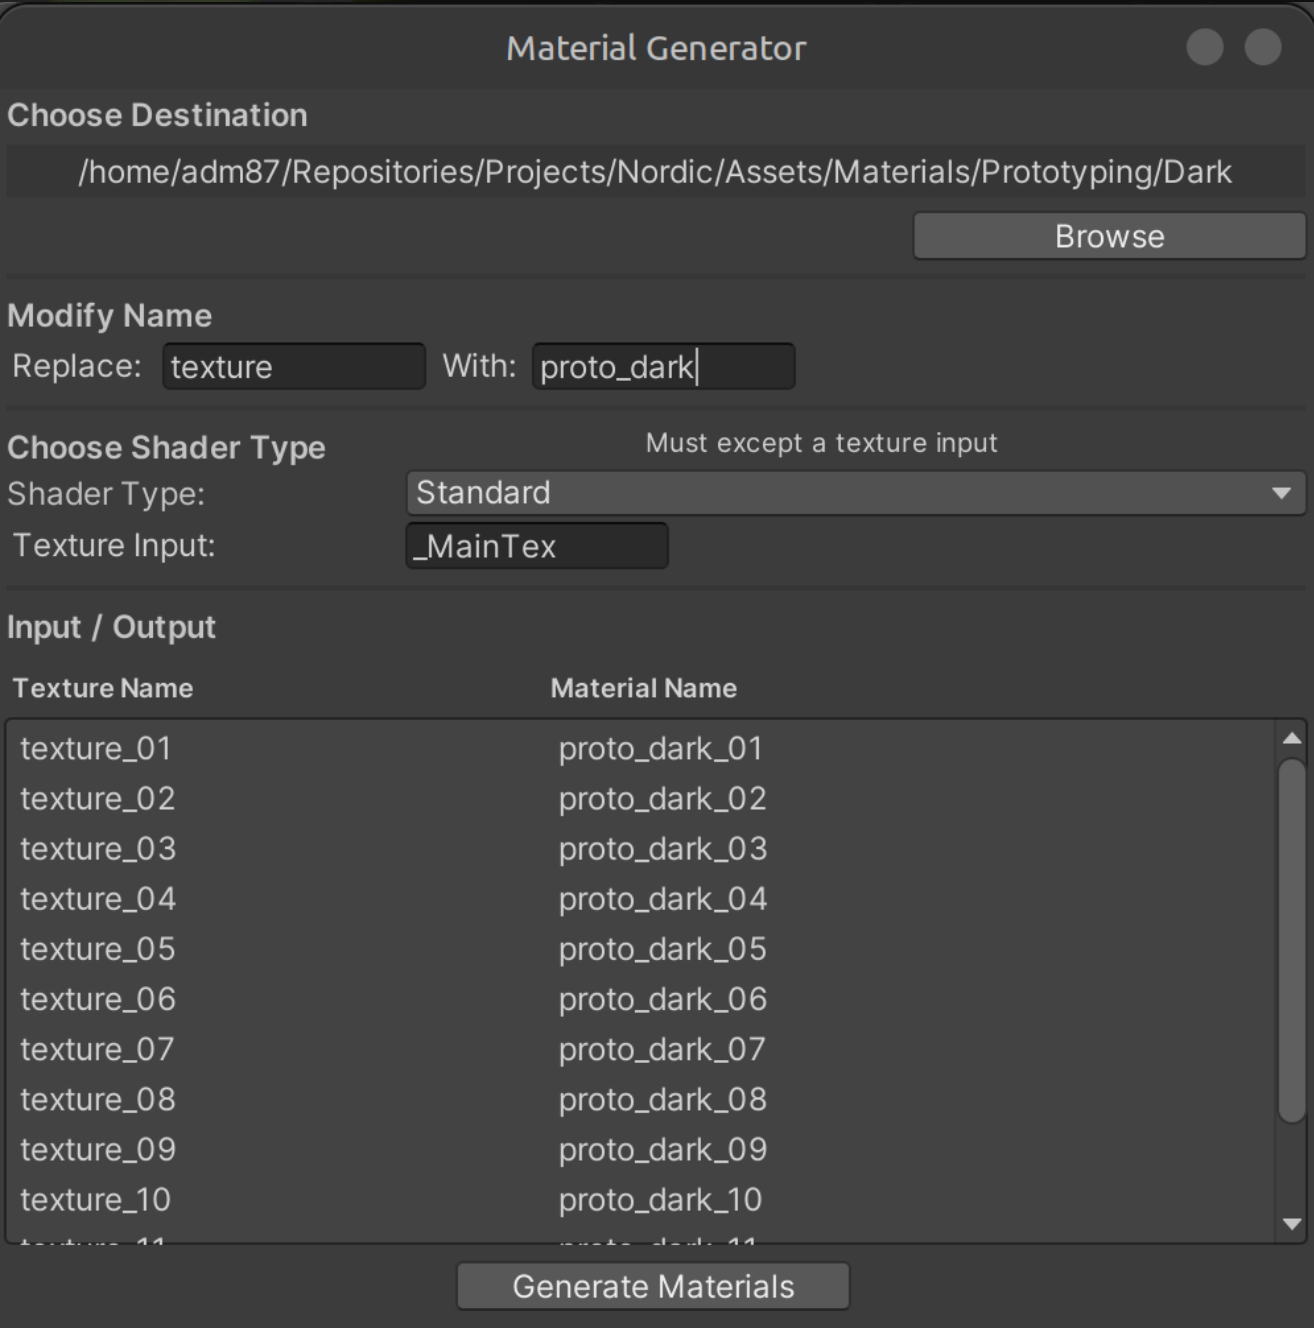
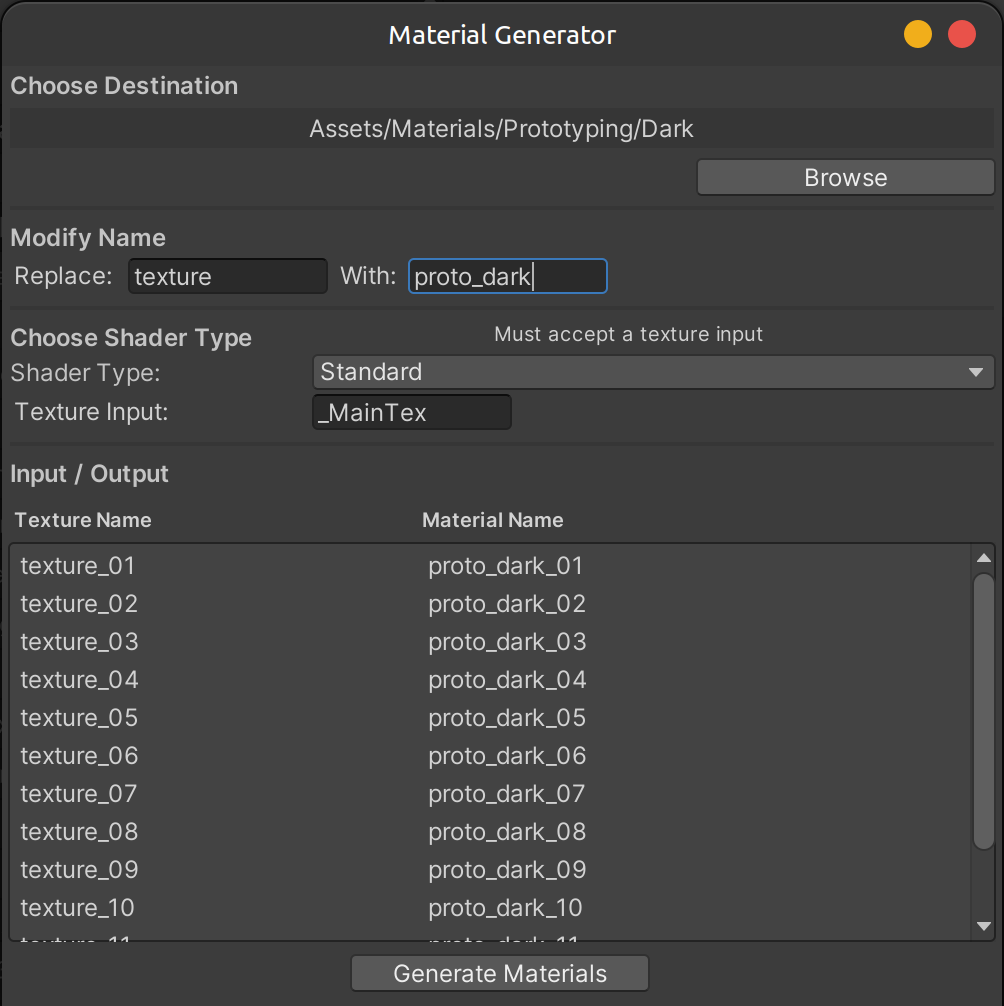
typo

diff --git a/Editor/Windows/MatGenWindow.cs b/Editor/Windows/MatGenWindow.cs
@@ -64,7 +64,7 @@ namespace Tools.MatGen
         {
             GUILayout.BeginHorizontal();
             GUILayout.Label("Choose Shader Type", EditorStyles.boldLabel);
-            GUILayout.Label("Must except a texture input", EditorStyles.miniLabel);
+            GUILayout.Label("Must accept a texture input", EditorStyles.miniLabel);
             GUILayout.EndHorizontal();
 
             var shaderNames = ShaderUtil.GetAllShaderInfo().Select(s => s.name).ToArray();
